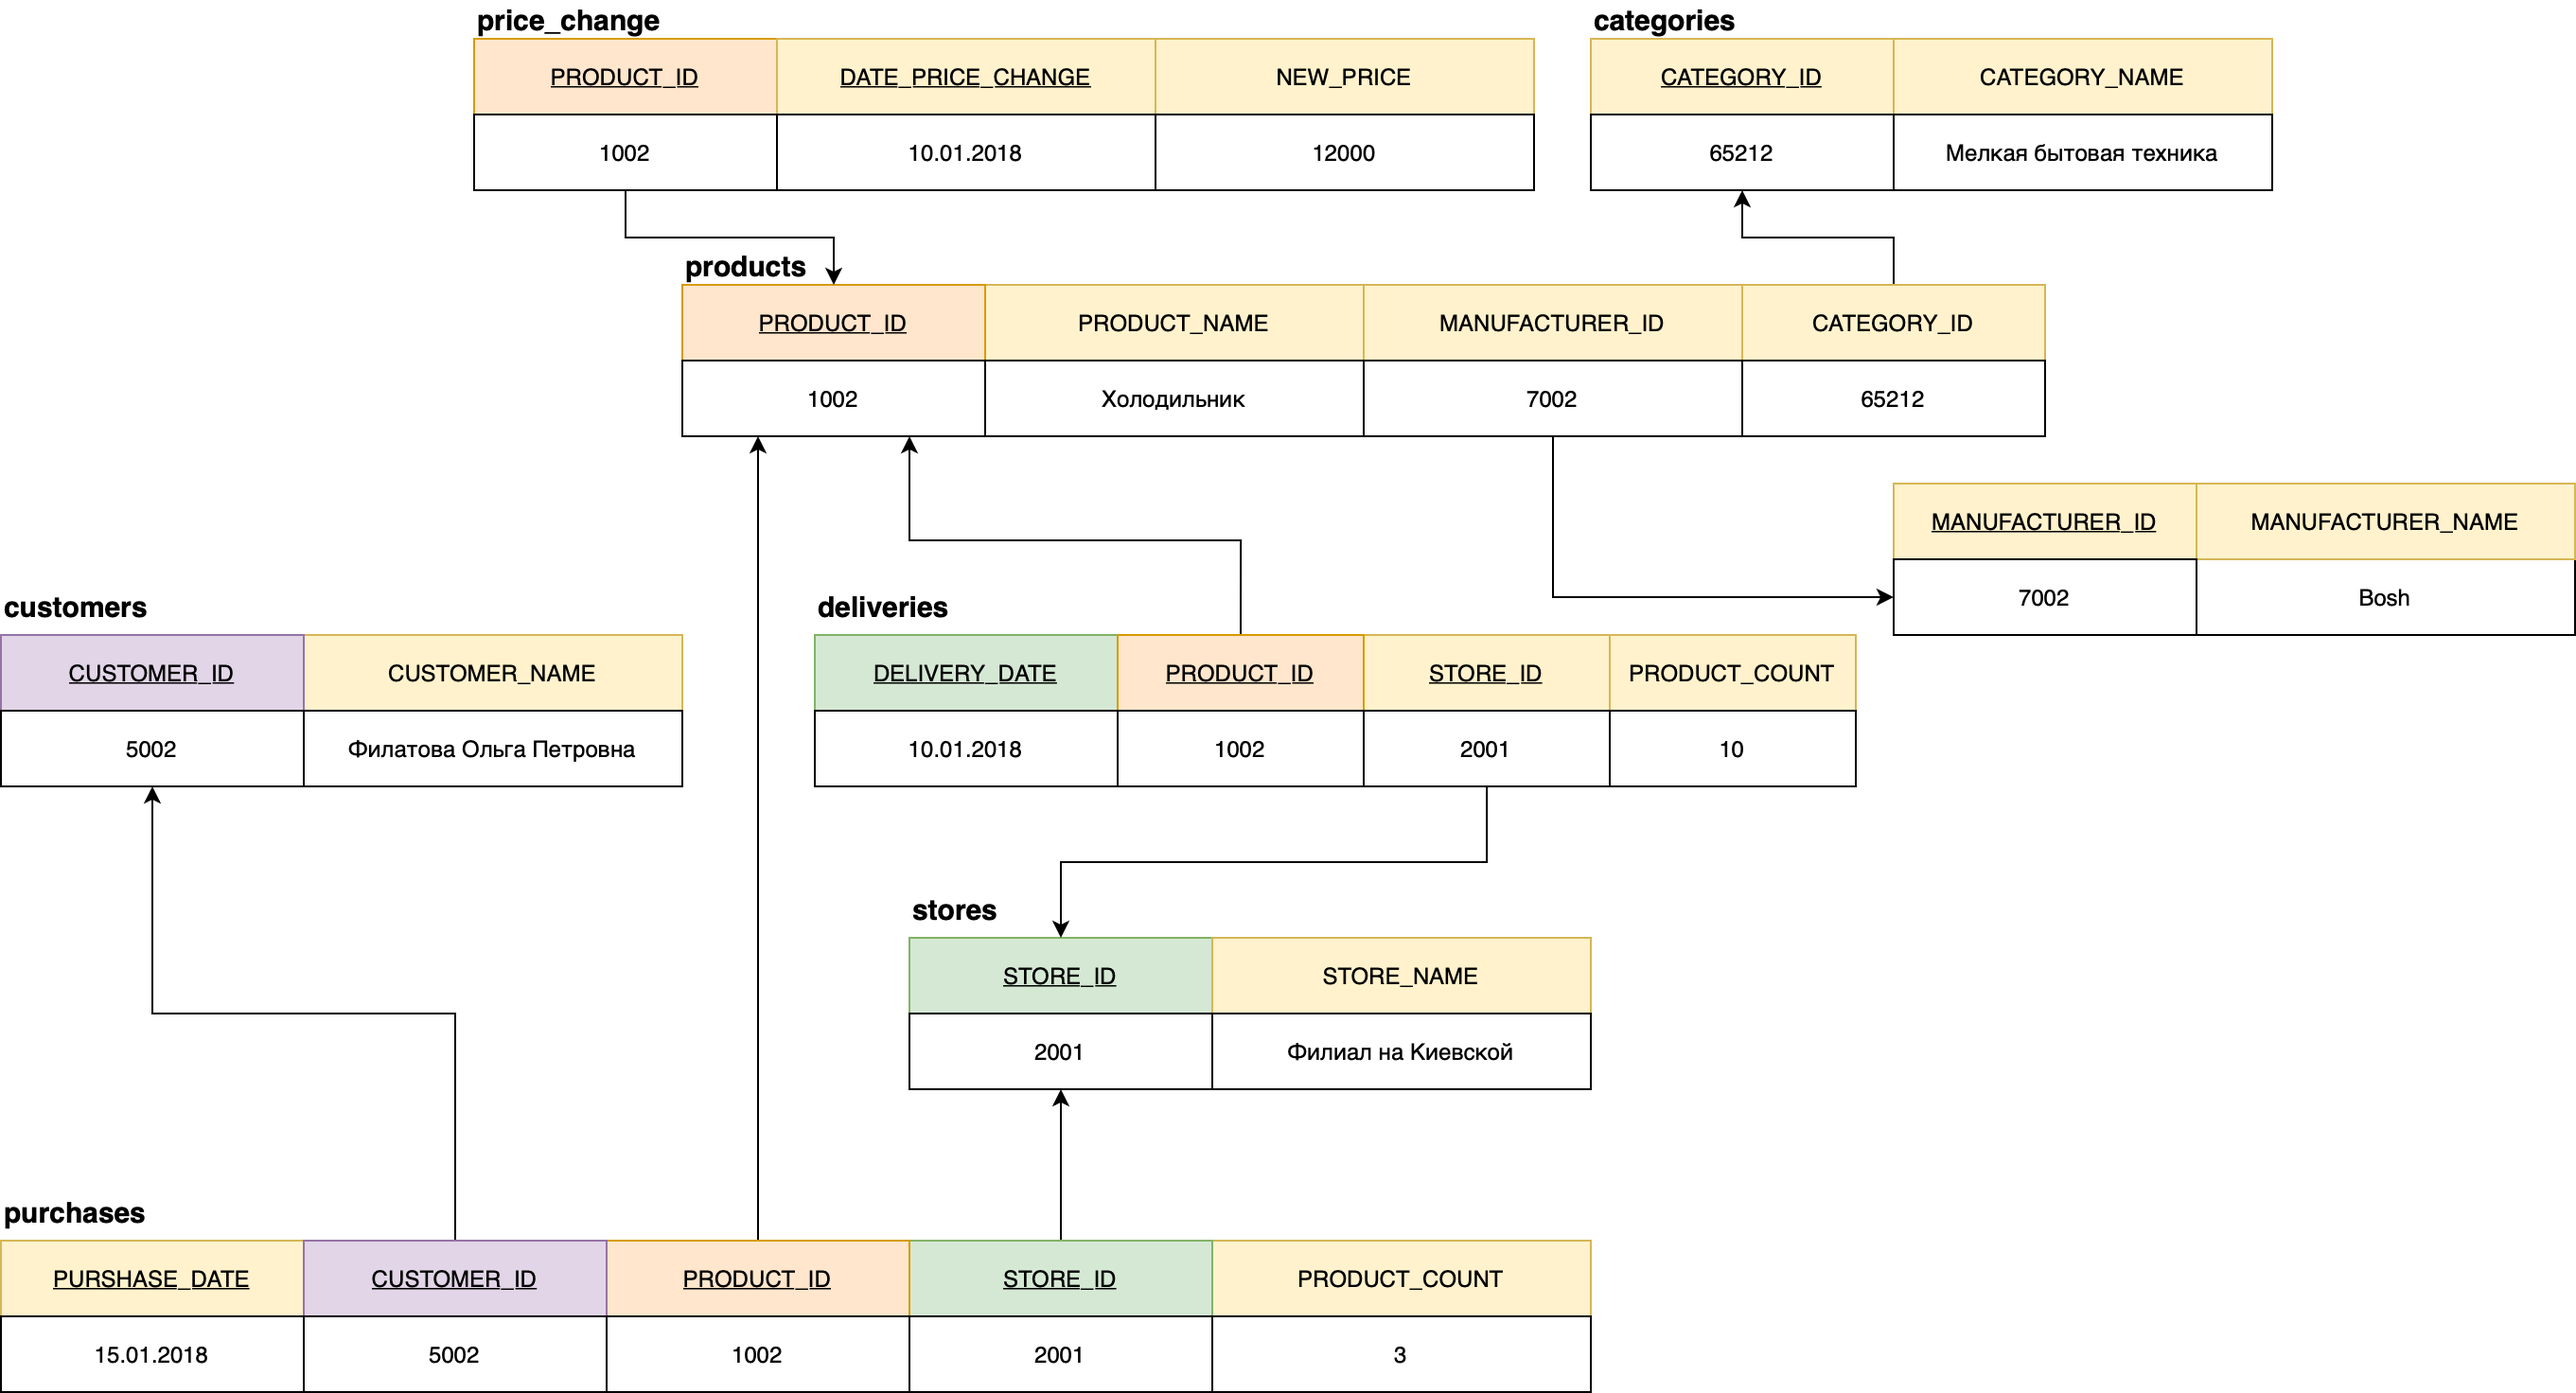
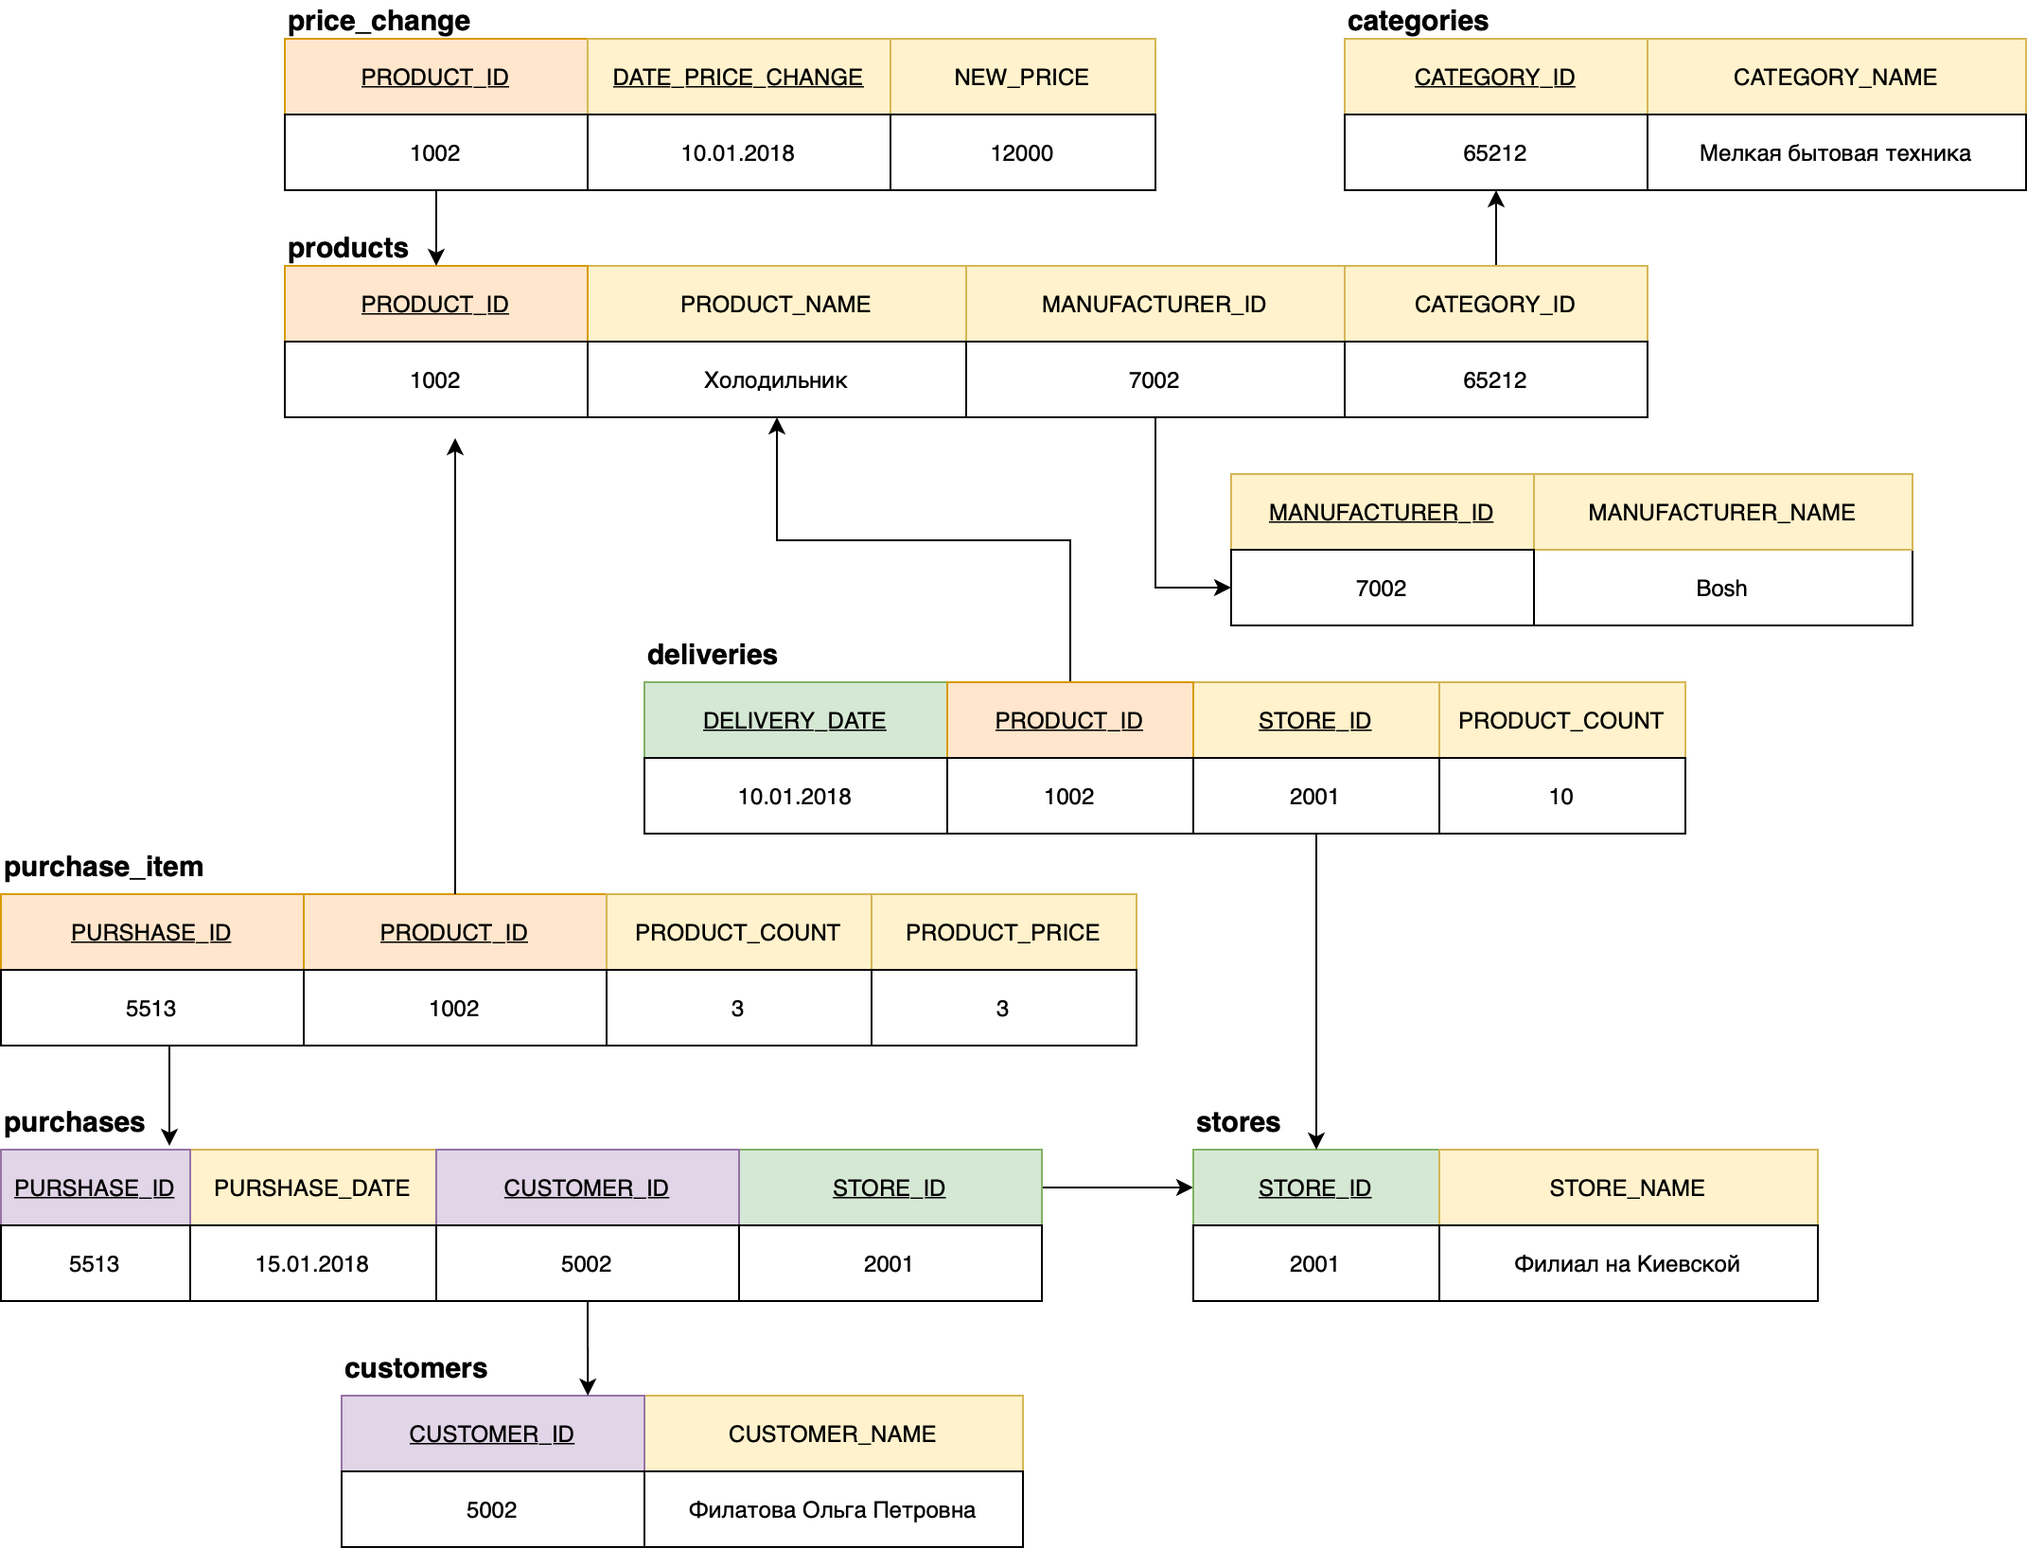
Покупки

Changed region(s): [[0.0, 0.0, 1.0, 1.0], [0.3389, 0.3125, 0.3697, 0.3438], [0.2773, 0.3125, 0.3081, 0.3438]]

diff --git a/pages/databases/goods.md b/pages/databases/goods.md
@@ -8,6 +8,7 @@ published: true
 1. clients (покупатели)
 1. products (товары)
 1. purchases (покупки)
+1. purchase_item (элемент покупки)
 1. deliveries (поставки)
 1. price_change (изменения цены товаров)
 1. categories (категории товара)
@@ -73,11 +74,20 @@ published: true
 
 ### Покупки (purchases)
 
-Таблица покупок содержит идентификатор покупателя, совершившего покупку, идентификатор филиала, где была совершена покупка, идентификатор купленного товара, его количество и дату покупки. Для упрощения анализа информации о покупках в таблицу введено поле цена продукта на момент покупки.
+Таблица покупок или таблица счетов на оплату товаров, покупаемых в рамках одной покупки. Таблица содержит идентификатор покупки, идентификатор покупателя, совершившего покупку, идентификатор филиала, где была совершена покупка и дату покупки. 
 
-| Идентификатор покупателя |Идентификатор филиала | Идентификатор товара | Количество товара | Дата покупки | Цена товара |
-|--------|:----------:|:-----------------:|:---------------:|:---------------:|:---------------:|
-|  customer_id |store_id | product_id | product_count   | purchase_date | product_price | 
+| Идентификатор покупки | Идентификатор покупателя |Идентификатор филиала | Дата покупки |
+|--------|:----------:|:-----------------:|:---------------:|:---------------:|
+|  purchase_id | customer_id |store_id | product_id | product_count   | purchase_date | product_price | 
+
+### Элемент покупки (purchase_item)
+
+Таблица содержит информацию о товарах, купленных в рамках одной покупки (товары в счете на оплату). Для упрощения анализа информации о покупках в таблицу введено поле цена продукта на момент покупки.
+
+| Идентификатор покупки |Идентификатор товара | Количество товара | Цена товара |
+|--------|:----------:|:-----------------:|:---------------:|
+|  purchase_id | product_id | product_count | product_price | 
+
 
 ## Схема связи таблиц базы данных
 
@@ -95,6 +105,7 @@ DROP TABLE IF EXISTS stores;
 DROP TABLE IF EXISTS deliveries;
 DROP TABLE IF EXISTS customers;
 DROP TABLE IF EXISTS purchases;
+DROP TABLE IF EXISTS purchase_items;
 
 CREATE TABLE IF NOT EXISTS categories 
 (
@@ -140,33 +151,37 @@ CREATE TABLE IF NOT EXISTS deliveries
     store_id INTEGER NOT NULL,
     delivery_date  INTEGER NOT NULL,
     product_count  INTEGER NOT NULL,    
-    CONSTRAINT PK_DELIVERY PRIMARY KEY (product_id, store_id, delivery_date), 
     FOREIGN KEY ([product_id]) REFERENCES "products" ([product_id]) ON DELETE NO ACTION ON UPDATE NO ACTION,
     FOREIGN KEY ([store_id]) REFERENCES "stores" ([store_id]) ON DELETE NO ACTION ON UPDATE NO ACTION
 );
 
 
-CREATE TABLE IF NOT EXISTS "customers"
+CREATE TABLE IF NOT EXISTS customers
 (
     customer_id INTEGER PRIMARY KEY AUTOINCREMENT NOT NULL,
     customer_name text  NOT NULL
 );
 
 
-CREATE TABLE IF NOT EXISTS "purchases"
-(    
-    customer_id INTEGER  NOT NULL,
+CREATE TABLE IF NOT EXISTS purchases
+(
+    purchase_id INTEGER PRIMARY KEY AUTOINCREMENT NOT NULL,
+    customer_id INTEGER NOT NULL,
     store_id INTEGER  NOT NULL,    
-    product_id INTEGER  NOT NULL,        
-    product_count INTEGER  NOT NULL,    
     purchase_date INTEGER NOT NULL,
-    product_price REAL NOT NULL,
-    CONSTRAINT PK_PURCHASE PRIMARY KEY (customer_id, store_id, product_id, purchase_date),
     FOREIGN KEY ([customer_id]) REFERENCES "customers" ([customer_id]) ON DELETE NO ACTION ON UPDATE NO ACTION,
-    FOREIGN KEY ([product_id]) REFERENCES "products" ([product_id]) ON DELETE NO ACTION ON UPDATE NO ACTION,
     FOREIGN KEY ([store_id]) REFERENCES "stores" ([store_id]) ON DELETE NO ACTION ON UPDATE NO ACTION
 );
 
-
+CREATE TABLE IF NOT EXISTS purchase_items
+(
+    purchase_id INTEGER NOT NULL,
+    product_id INTEGER NOT NULL,
+    product_count INTEGER NOT NULL,
+    product_price REAL NOT NULL,
+    CONSTRAINT PK_PURCHASE_ITEMS PRIMARY KEY (purchase_id, product_id),  
+    FOREIGN KEY ([product_id]) REFERENCES "products" ([product_id]) ON DELETE NO ACTION ON UPDATE NO ACTION,
+    FOREIGN KEY ([purchase_id]) REFERENCES "purchases" ([purchase_id]) ON DELETE NO ACTION ON UPDATE NO ACTION
+);
 
 ~~~
